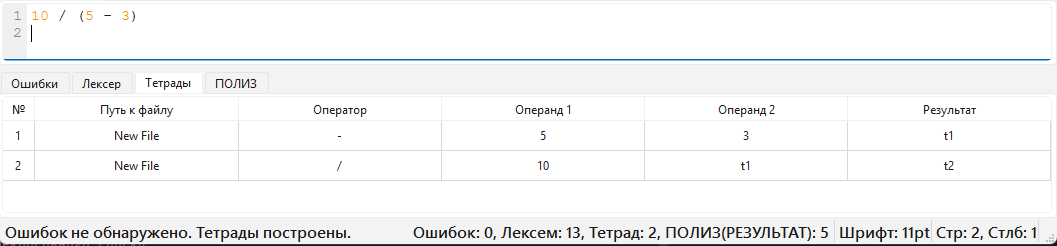
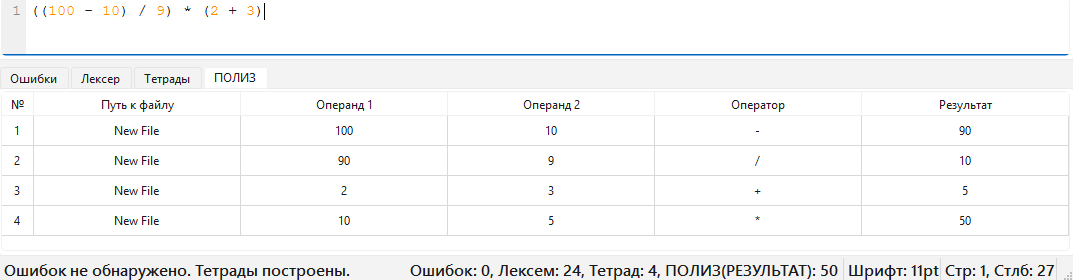
README

diff --git a/README.md b/README.md
@@ -16,6 +16,10 @@ Swift
 5. F → num | id | (E)
 6. id → letter {letter | digit | _ }
 7. num → digit {digit}
+
+letter → a..z A..Z
+digit → 0 | 1 | 2 | 3 | 4 | 5 | 6 | 7 | 8 | 9
+
 ````
 ### Примеры корректных строк: 
 (a + b) * c
@@ -30,7 +34,7 @@ Swift
 ### Диаграмма лексера
 ![сканер.drawio.png](images/%D1%81%D0%BA%D0%B0%D0%BD%D0%B5%D1%80.drawio.png)
 ### Схема рекурсивного спуска
-
+![PA.png](images/PA.png)
 
 
 ### Скриншоты работы лексера 
@@ -56,7 +60,7 @@ Swift
 
 ## ПОЛИЗ
 **Строка: 10 / (5 - 3)**
-![rpn_2.png](images/rpn_2.png)
+![rpn_1.png](images/rpn_1.png)
 
 **Строка: ((100 - 10) / 9) * (2 + 3)**
-![rpn_1.png](images/rpn_1.png)
+![rpn_2.png](images/rpn_2.png)